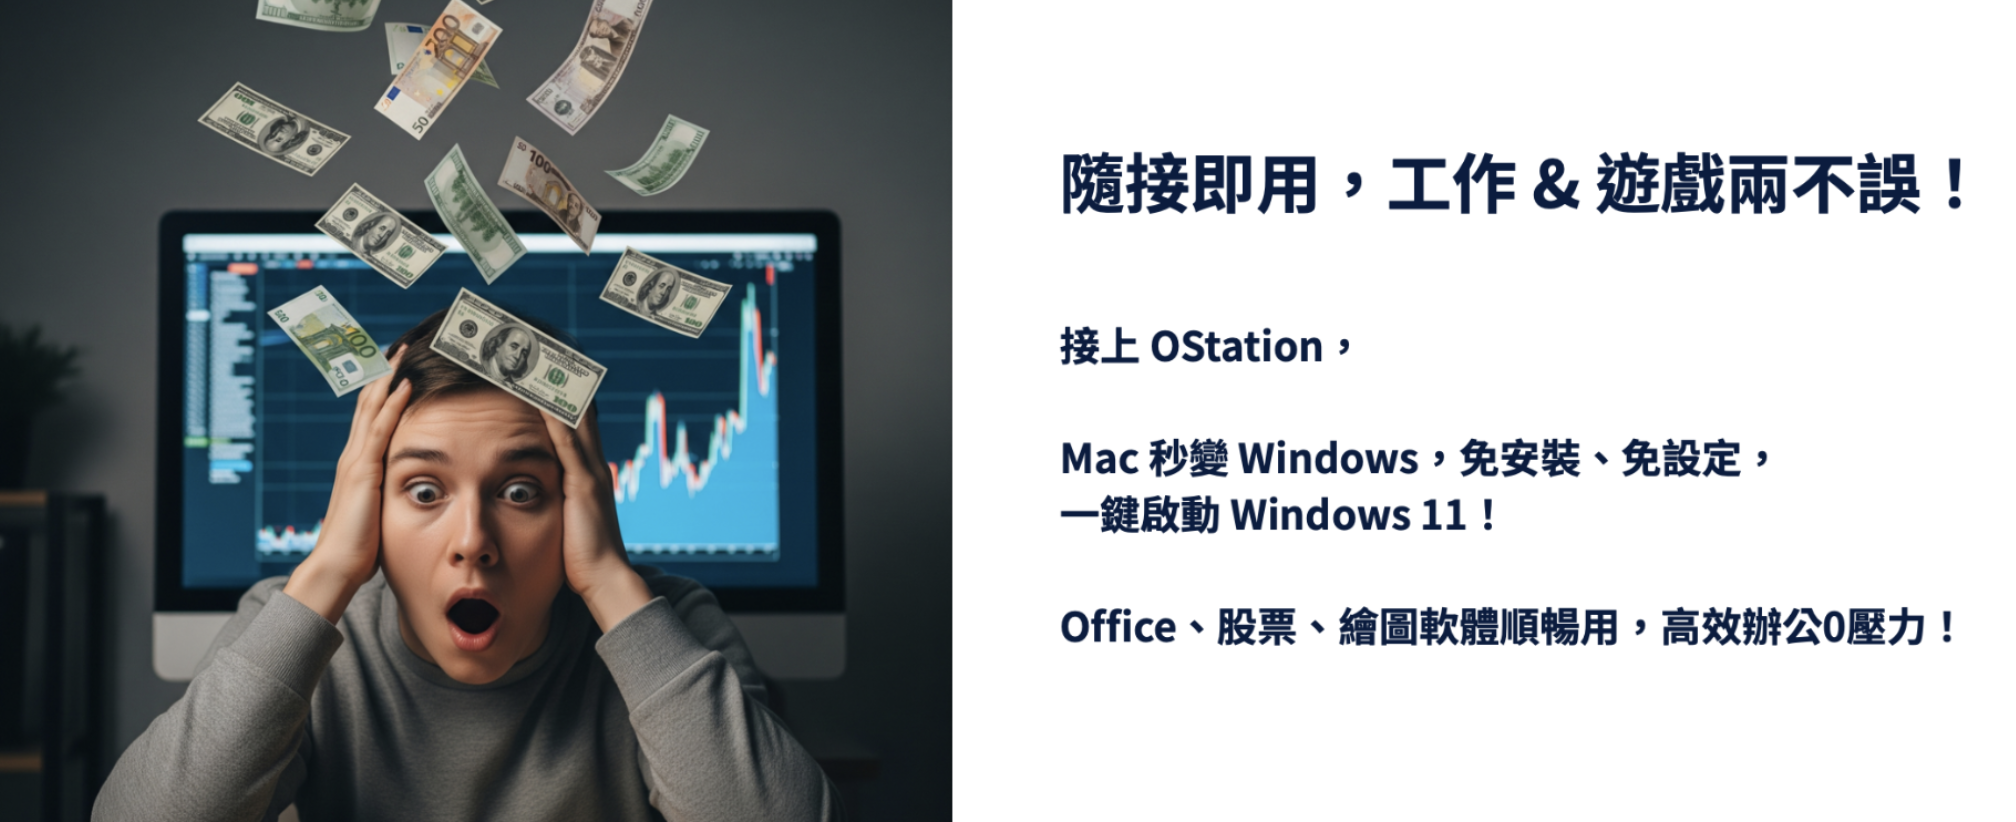
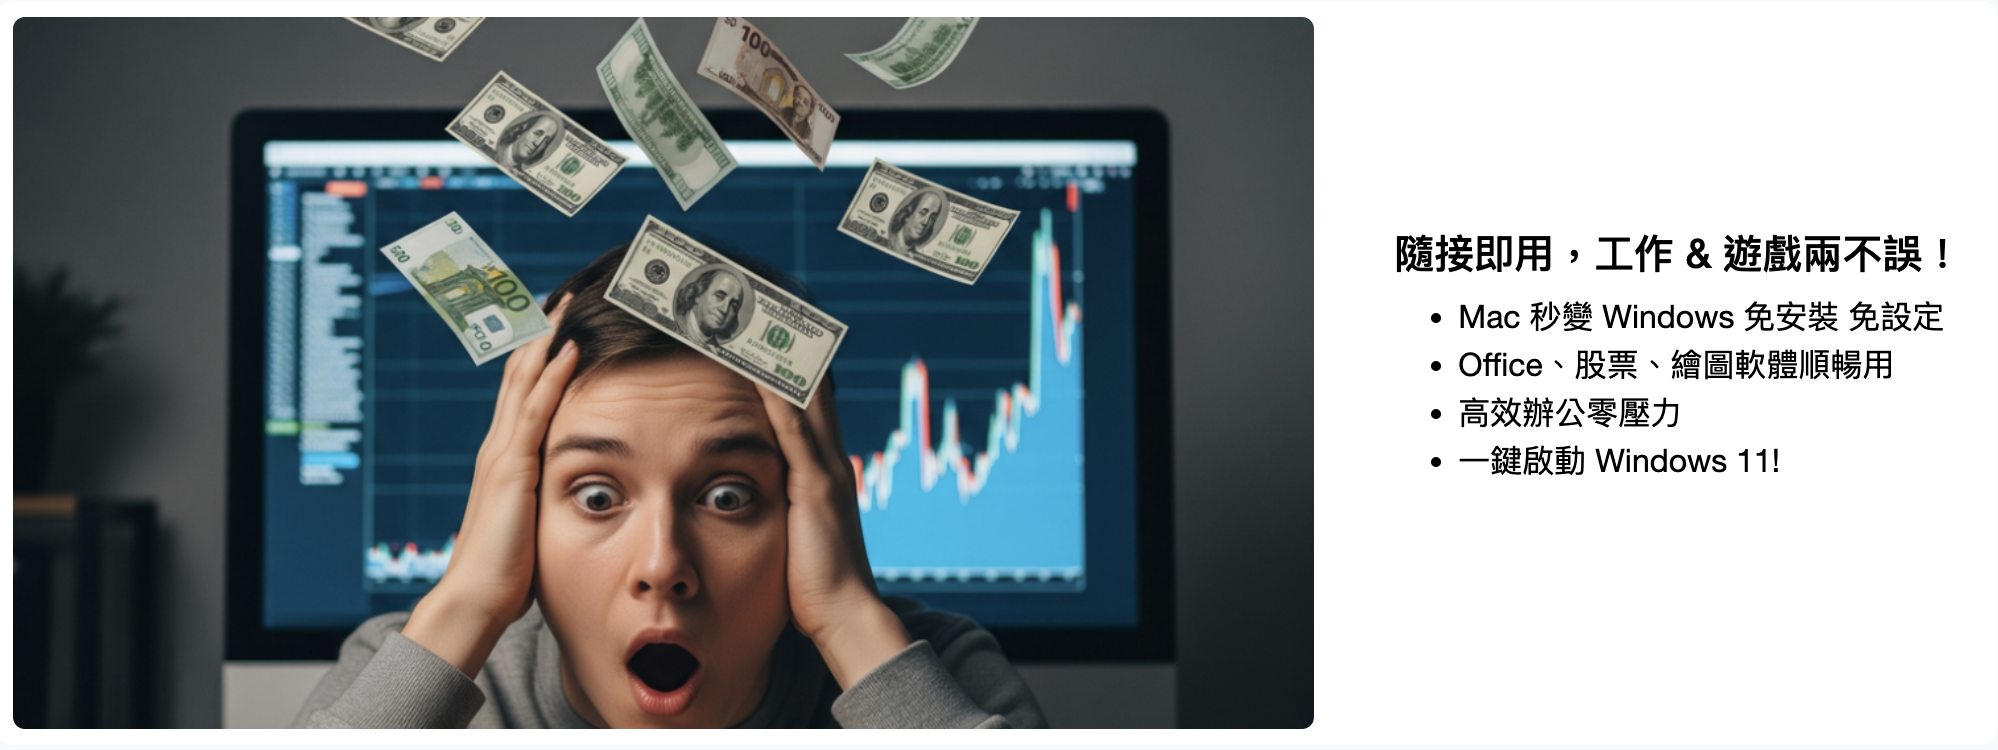
adjust css

diff --git a/static/css/style.css b/static/css/style.css
@@ -498,7 +498,7 @@ footer .social-icons a:hover {
 /* ---------------- card1 样式 ---------------- */
 .feature-card1 {
   width: 90%;
-  max-width: 1000px;
+  max-width: 1100px;
   background-color: #051d40; /* 深蓝底 */
   color: #ffffff;            /* 默认文字白色 */
   padding: 2rem;
@@ -518,6 +518,7 @@ footer .social-icons a:hover {
   margin-bottom: 0.5rem; /* 下方外边距 */
   margin-left: 0.5rem;   /* 左右居中用 */
   margin-right: 0.5rem;
+  color: #ffffff;     
 }
 
 .feature-card1 .feature-img {
@@ -531,12 +532,26 @@ footer .social-icons a:hover {
   margin-right: 1rem;
 }
 
+.feature-card1 h5 {
+  font-size: 1.4rem;
+  margin-bottom: 15px;
+  font-weight: 700;        /* 使用粗体 */
+  color: #f1f1f1;          /* 深蓝色 */
+}
+
+.feature-card1 ul li {
+  font-size: 1.2rem;
+  margin-bottom: 0.5rem;
+  font-weight: normal;     /* 不使用粗体 */
+  color: #ffffff;          /* 深蓝色 */
+}
+
 .feature-card1:hover {
   transform: translateY(-5px);
   box-shadow: 0 6px 20px rgba(0, 0, 0, 0.15);
 }
 
-.feature-card1:hover .feature-text,
+.feature-card1:hover .feature-text h5,
 .feature-card1:hover .feature-text ul li {
   color: #00DAEA; /* hover 文字变螢光蓝 */
 }
@@ -545,7 +560,7 @@ footer .social-icons a:hover {
 /* ---------------- card2 样式 ---------------- */
 .feature-card2 {
   width: 90%;
-  max-width: 1000px;
+  max-width: 1100px;
   background-color: #ffffff; /* 白底 */
   color: #000000;            /* 默认文字黑色 */
   /* padding: 2rem; */
@@ -576,13 +591,27 @@ footer .social-icons a:hover {
   margin: 0;  /* 清掉 margin，gap 控制间距 */
 }
 
+.feature-card2 h5 {
+  font-size: 1.4rem;
+  margin-bottom: 15px;
+  font-weight: 600;        /* 使用粗体 */
+  color: #051d40;          /* 深蓝色 */
+}
+
+
+.feature-card2 ul li {
+  font-size: 1.2rem;
+  margin-bottom: 0.5rem;
+  font-weight: normal;     /* 不使用粗体 */        /* 深蓝色 */
+  color: #051d40        /* 深蓝色 */
+}
 
 .feature-card2:hover {
   transform: translateY(-5px);
   box-shadow: 0 6px 20px rgba(0, 0, 0, 0.15);
 }
 
-.feature-card2:hover .feature-text,
+.feature-card2:hover .feature-text h5,
 .feature-card2:hover .feature-text ul li {
   color: #00DAEA; /* hover 文字变螢光蓝 */
 }
@@ -604,7 +633,7 @@ footer .social-icons a:hover {
 /* ---------------- card3 样式 ---------------- */
 .feature-card3 {
   width: 90%;
-  max-width: 1000px;
+  max-width: 1100px;
   background-color: #ffffff; /* 白底 */
   color: #000000;            /* 默认文字黑色 */
   padding: 2rem;
@@ -638,12 +667,27 @@ footer .social-icons a:hover {
 }
 
 
+.feature-card3 h5 {
+  font-size: 1.4rem;
+  margin-bottom: 15px;
+  font-weight: 600;        /* 使用粗体 */
+  color: #051d40;          /* 深蓝色 */
+}
+
+
+.feature-card3 ul li {
+  font-size: 1.2rem;
+  margin-bottom: 0.5rem;
+  font-weight: normal;     /* 不使用粗体 */        /* 深蓝色 */
+  color: #051d40        /* 深蓝色 */
+}
+
 .feature-card3:hover {
   transform: translateY(-5px);
   box-shadow: 0 6px 20px rgba(0, 0, 0, 0.15);
 }
 
-.feature-card3:hover .feature-text,
+.feature-card3:hover .feature-text h5,
 .feature-card3:hover .feature-text ul li {
   color: #00DAEA; /* hover 文字变螢光蓝 */
 }

diff --git a/templates/index.html b/templates/index.html
@@ -89,7 +89,7 @@
 
   <section id="section3">
     <div class="container">
-      <h2 class="core-title text-center mb-4">
+      <h2 class="core-title text-center mb-5">
         產品特色
       </h2>
       <div class="row g-4">
@@ -100,9 +100,7 @@
           <div class="feature-text">
             <h5>資料零遺失，遊戲檔案一手掌握！</h5>
             <ul>
-              <li>把所有 Windows 資料、超大遊戲通通</li>
-              <li>存進凌航企業級工控 Neo Forza SSD</li>
-              <li>存進 <span class="color1">凌航</span> 企業級工控 <span class="color1">Neo Forza SSD</span></li>
+              <li>把所有 Windows 資料、超大遊戲通通存進 <span class="color1">凌航</span> 企業級工控 <span class="color1">Neo Forza SSD</span></li>
               <li>1TB 大容量，保存不佔 Mac 空間</li>
               <li>速度更快、體驗更爽</li>
               <li>玩得盡興再也不用妥協！</li>
@@ -127,7 +125,7 @@
             <div class="feature-text">
               <h5>隨接即用，工作 & 遊戲兩不誤！</h5>
               <ul>
-                <li>Mac 秒變 Windows 免安裝 免設定</li>
+                <li>Mac 秒變Windows免安裝免設定</li>
                 <li>Office、股票、繪圖軟體順暢用 </li>
                 <li>高效辦公零壓力</li>
                 <li>一鍵啟動 Windows 11!</li>
